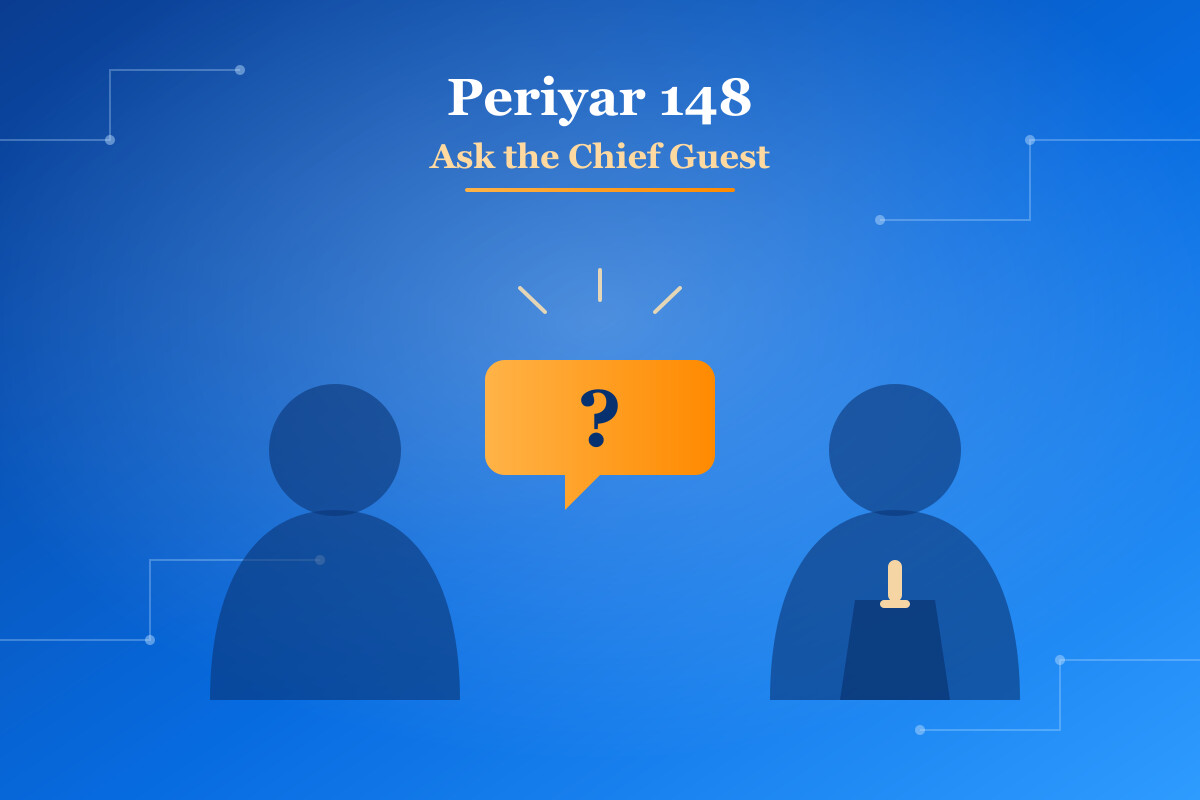
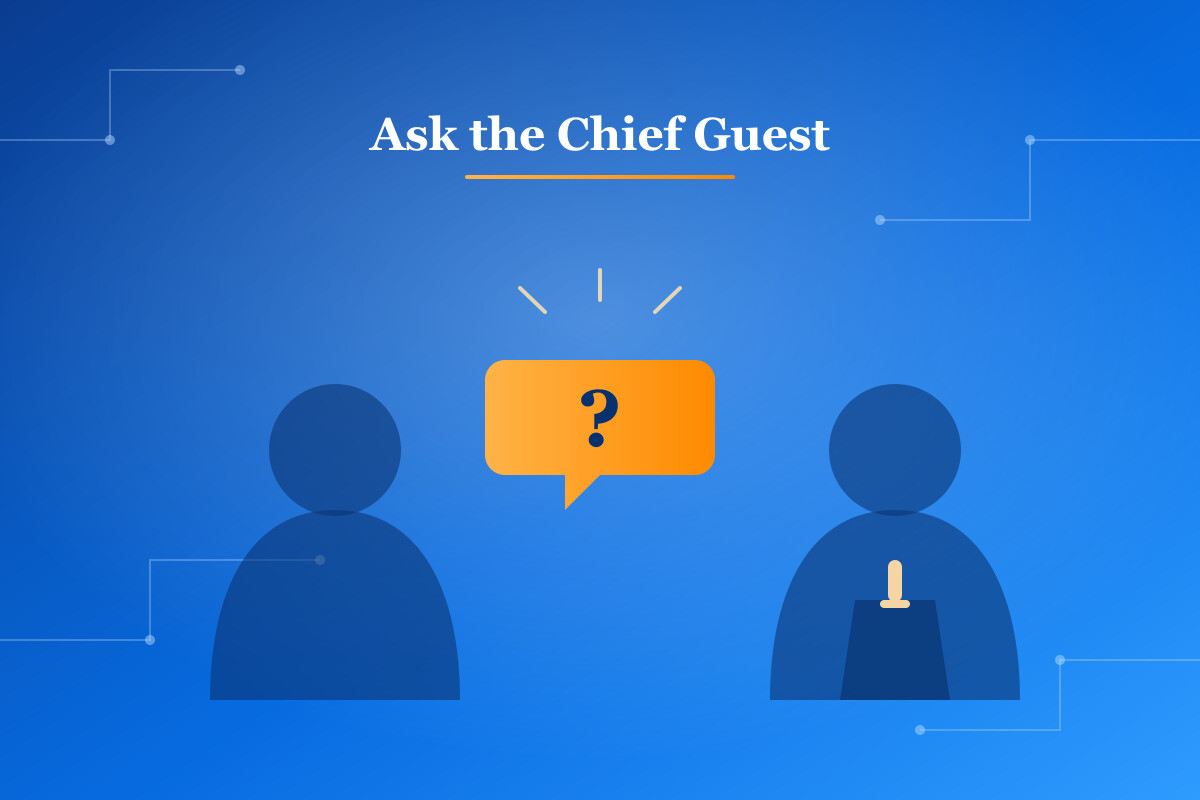
Trim events listing to featured events and drop year branding
- Hide Speech Contest, Run/Walk For Periyar, Parai Music, Kahoot Quiz,
  and Essay Writing from the /events/ listing, keeping the four
  currently-promoted events
- Give event cards a fixed-size, uniformly cropped image so mixed
  artwork styles read consistently in the grid
- Drop the year-specific "Periyar 148" line from the AI Challenge and
  Ask the Chief Guest artwork, and rename the AI Challenge page title
  to drop the year prefix, so the page and listing stay accurate
  across future years
- Switch the events listing blurb to each page's `description` field
  instead of the auto-generated summary, which also removes the
  leftover "Periyar 148" text from the card copy

Changed region(s): [[0.3083, 0.0938, 0.7092, 0.25]]

diff --git a/themes/meghna-hugo/layouts/events/list.html b/themes/meghna-hugo/layouts/events/list.html
@@ -22,11 +22,23 @@
         </div>
       </div>
       {{"<!-- /section title -->" | safeHTML}}
+      {{ $hiddenEvents := slice "Donate Now" "Speech Contest" "Run/Walk For Periyar" "Parai Music" "Kahoot Quiz" "Essay Writing" }}
       {{ $events := where site.RegularPages "Params.is_event" true }}
-      {{ $events := where $events "Params.title" "!=" "Donate Now" }}
+      {{ $events := where $events "Params.title" "not in" $hiddenEvents }}
       {{ $events := $events.ByDate.Reverse }}
       {{ range $events }}
-      {{ .Render "article" }}
+      <article class="col-lg-4 col-md-6 col-12 clearfix wow fadeInUp mb-4" data-wow-duration="500ms">
+        <div class="post-block">
+          <div class="media-wrapper event-card-media">
+            <img class="img-fluid lozad" data-src="{{ .Params.image_webp | absURL }}" onerror="this.onerror=null;this.src='{{ .Params.image | absURL }}'" alt="{{ .Title }}">
+          </div>
+          <div class="content">
+            <h3><a href="{{ .Permalink }}">{{ .Title }}</a></h3>
+            <p>{{ .Params.description }}</p>
+            <a class="btn btn-transparent" href="{{ .Permalink }}">{{ i18n "readMore" }}</a>
+          </div>
+        </div>
+      </article>
       {{ end }}
     </div>
   </div>

diff --git a/themes/meghna-hugo/assets/css/custom.css b/themes/meghna-hugo/assets/css/custom.css
@@ -1,6 +1,17 @@
 @import url('https://fonts.googleapis.com/css2?family=Roboto:wght@300;400;700&display=swap');
 @import url('https://fonts.googleapis.com/icon?family=Material+Icons');
 
+.event-card-media {
+  height: 220px;
+  overflow: hidden;
+}
+
+.event-card-media img {
+  width: 100%;
+  height: 100%;
+  object-fit: cover;
+}
+
 .event-header {
   font-family: 'Roboto', sans-serif;
   background-color: #52b7fa;

diff --git a/content/english/blog/youth-ai-challenge.md b/content/english/blog/youth-ai-challenge.md
@@ -1,5 +1,5 @@
 ---
-title: "Periyar 148 Youth AI Challenge"
+title: "Youth AI Challenge"
 date: 2026-07-30T12:00:00+06:00
 author: Periyar International
 image_webp: images/blog/Img_AIChallenge.webp
